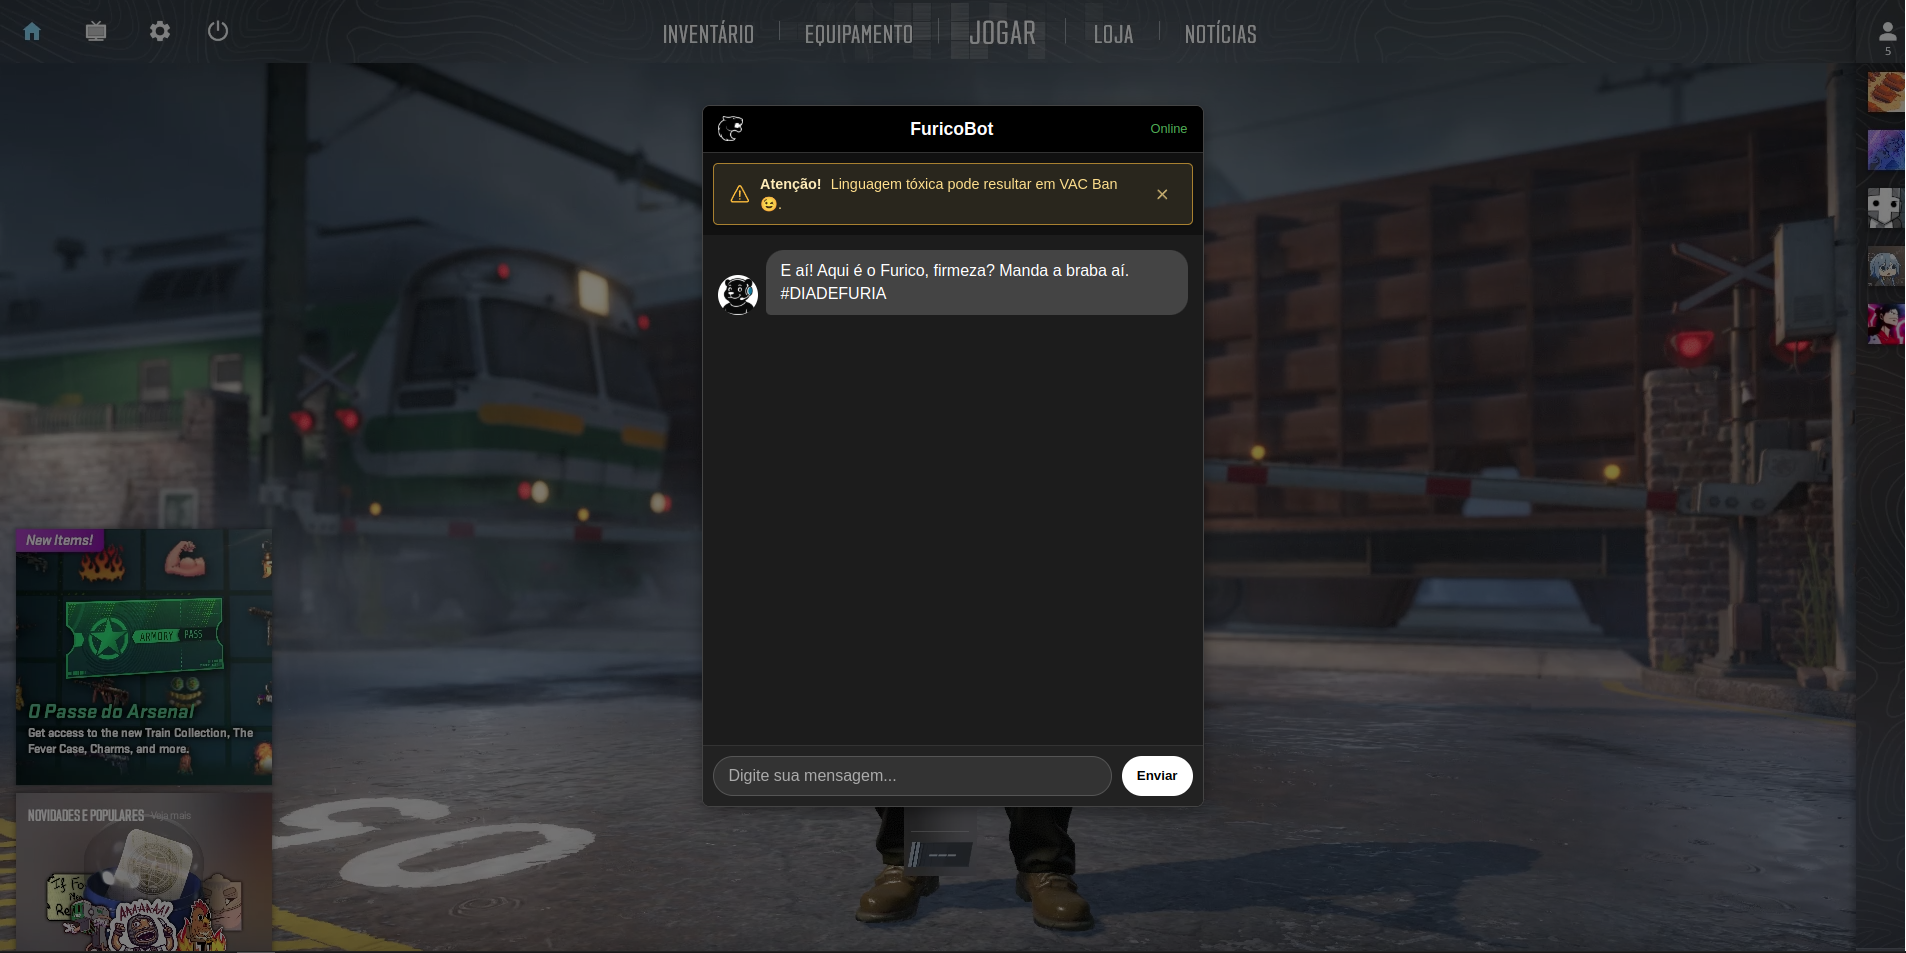
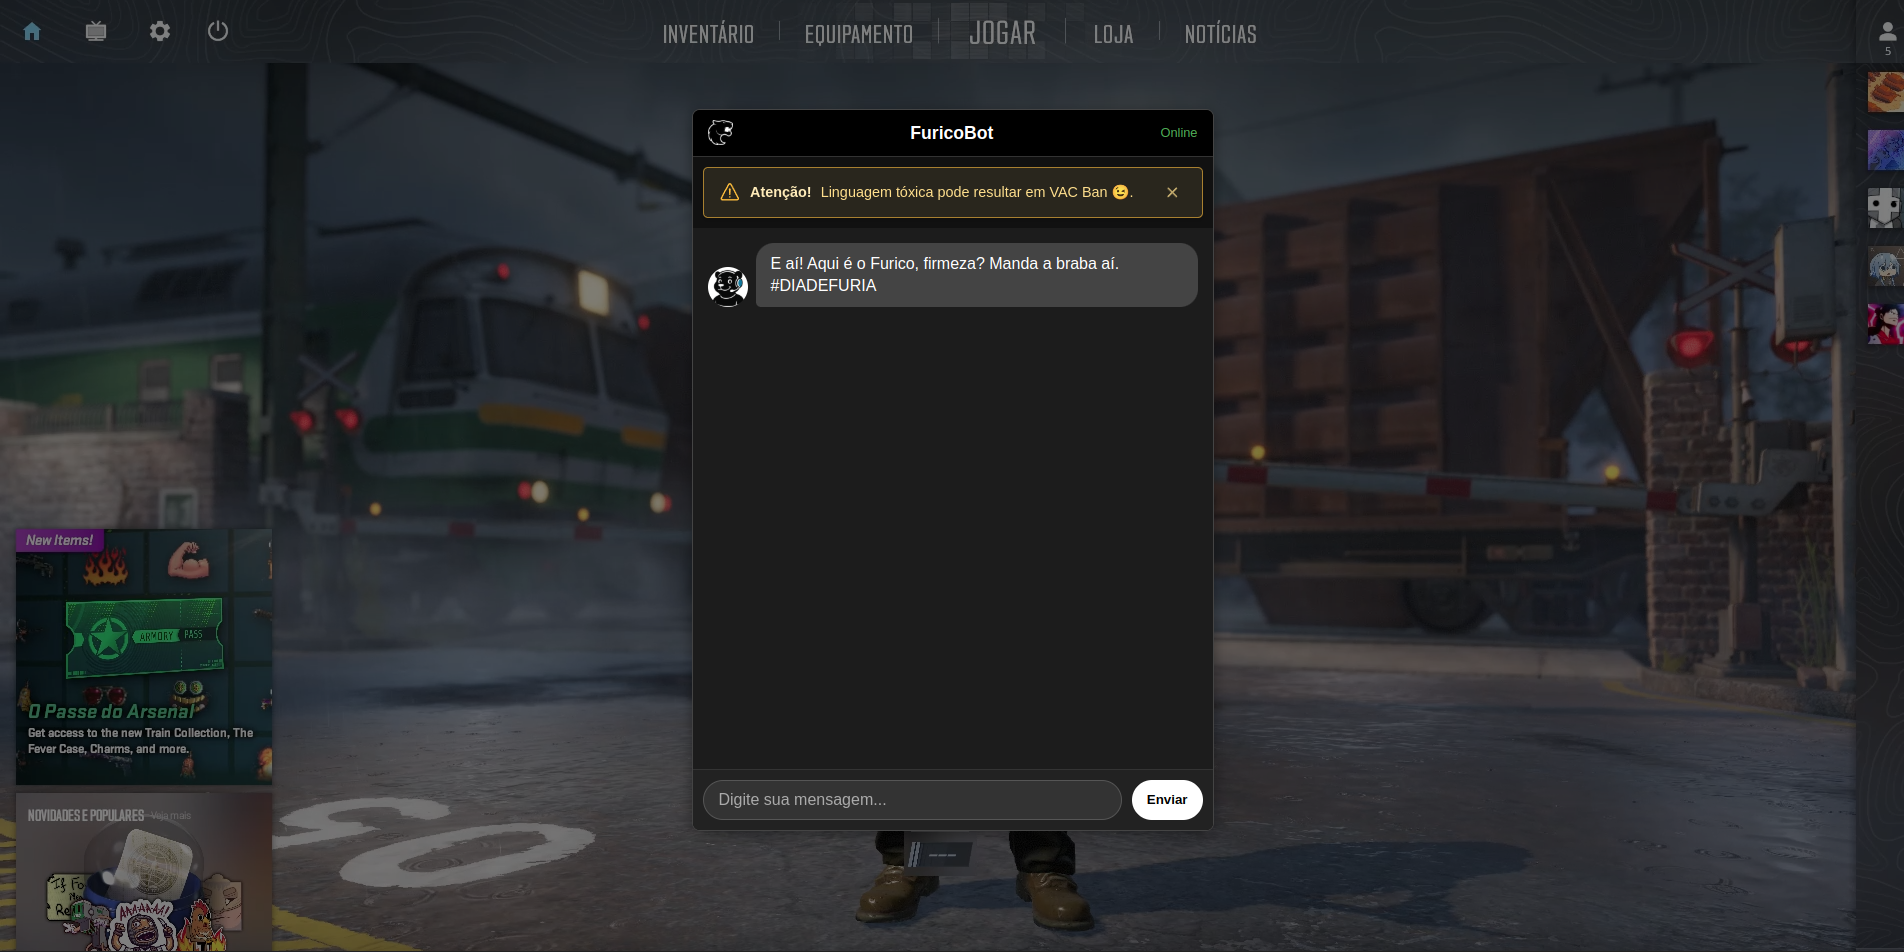
100% agora sim

diff --git a/src/components/Chatbot/Chatbot.module.css b/src/components/Chatbot/Chatbot.module.css
@@ -1,6 +1,6 @@
 .chatbotContainer {
-  width: 500px;
-  height: 700px;
+  width: 520px;
+  height: 720px;
   background-color: #111;
   border: 1px solid #444;
   border-radius: 8px;
